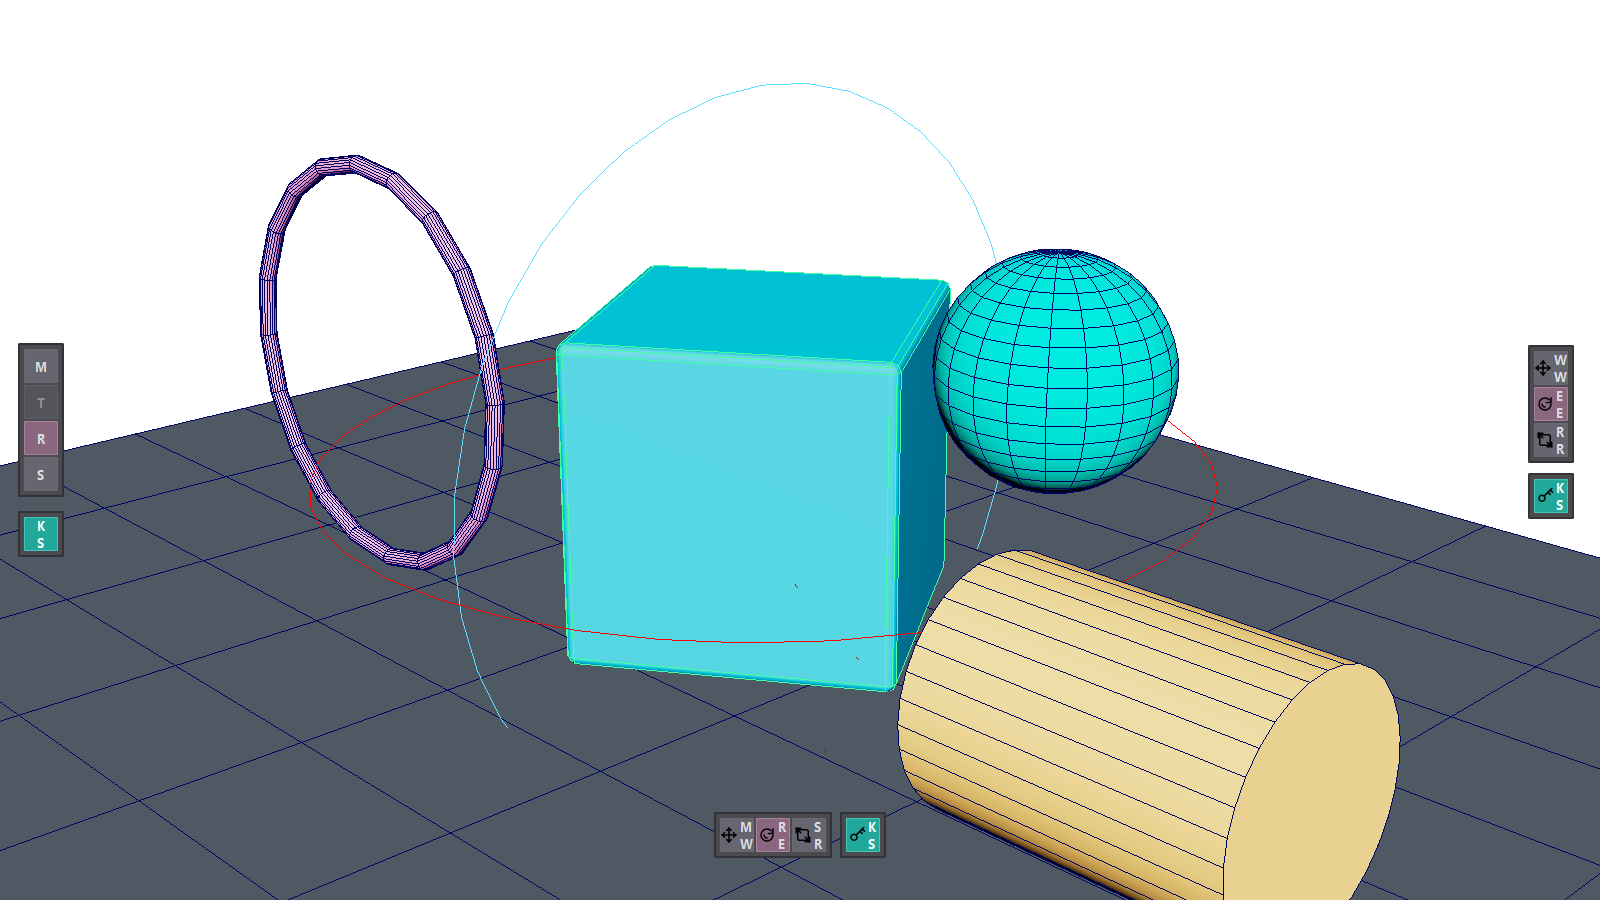
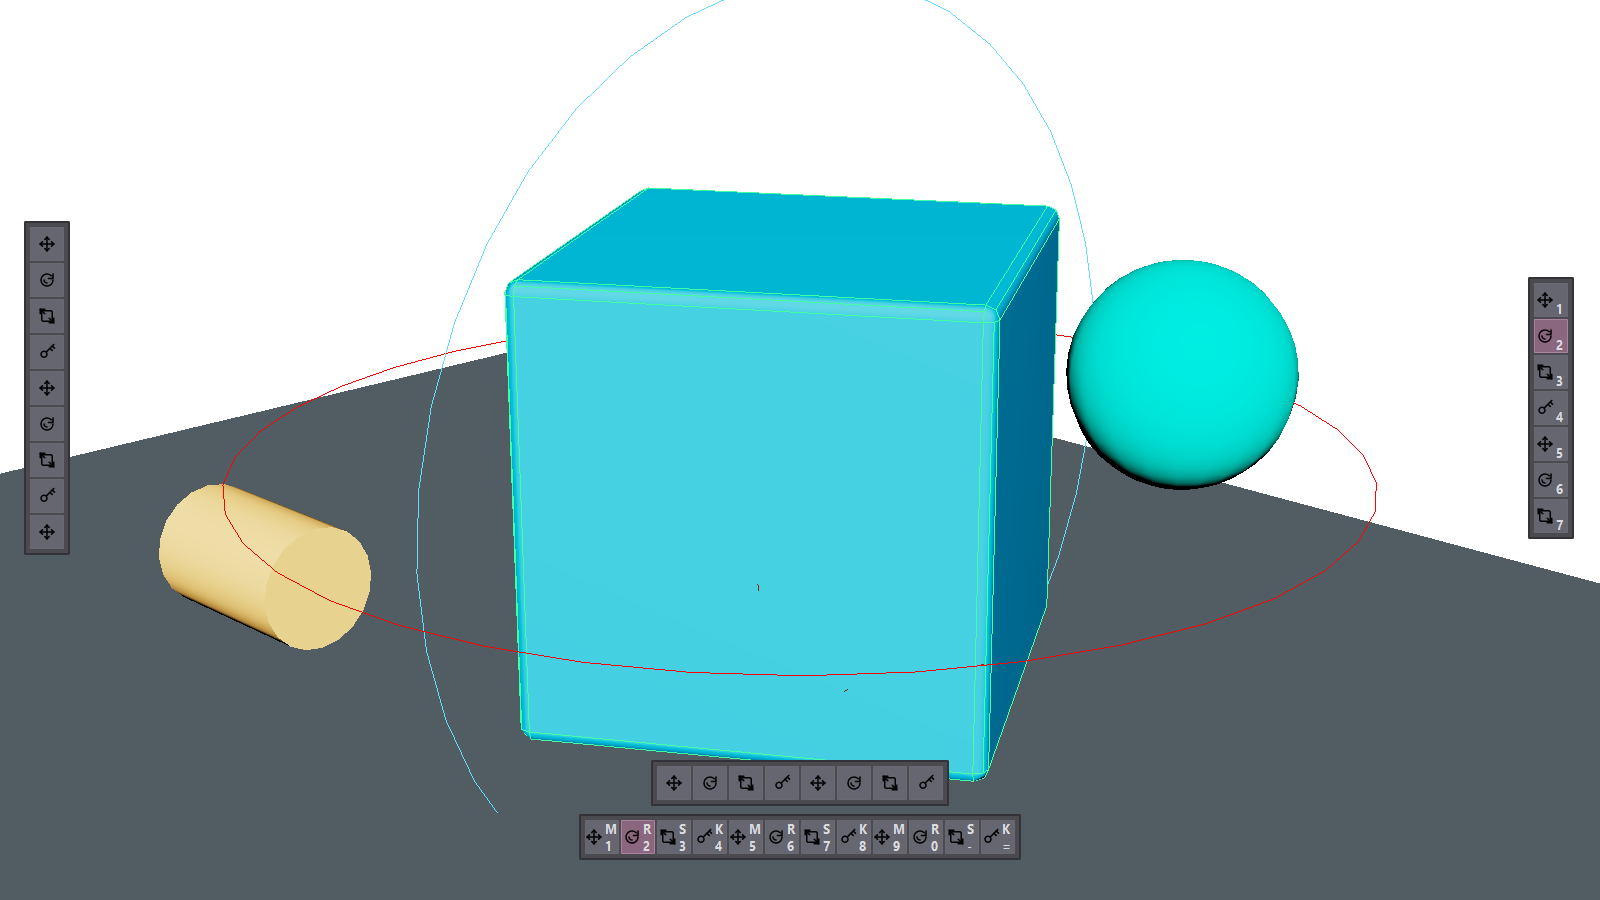
docs(readme): refresh Maya viewport showcase

diff --git a/tests/maya_smoke/actionrail_readme_screenshots.py b/tests/maya_smoke/actionrail_readme_screenshots.py
@@ -56,11 +56,9 @@ def _soften(node: str) -> None:
 
 
 def _bevel(node: str, offset: float = 0.035, segments: int = 2) -> None:
-    try:
+    with suppress(Exception):
         cmds.polyBevel(node, offset=offset, segments=segments, autoFit=True)
         _soften(node)
-    except Exception:
-        pass
 
 
 def _create_scene() -> str:
@@ -68,57 +66,38 @@ def _create_scene() -> str:
     cmds.currentUnit(linear="cm")
     cmds.currentTime(12)
 
-    slate = _material("ar_slate_mat", (0.18, 0.2, 0.23))
-    blue = _material("ar_blue_mat", (0.18, 0.48, 0.76))
+    blue = _material("ar_blue_mat", (0.16, 0.42, 0.72))
     teal = _material("ar_teal_mat", (0.08, 0.7, 0.64))
-    pink = _material("ar_pink_mat", (0.72, 0.34, 0.58))
     gold = _material("ar_gold_mat", (0.95, 0.68, 0.24))
-    graphite = _material("ar_graphite_mat", (0.11, 0.12, 0.14))
+    graphite = _material("ar_graphite_mat", (0.12, 0.13, 0.145))
 
-    ground = cmds.polyPlane(name="ActionRailStage", width=9.0, height=6.2)[0]
+    ground = cmds.polyPlane(name="ActionRailStage", width=7.2, height=4.8)[0]
     cmds.move(0, -0.04, 0, ground)
     _assign(ground, graphite)
 
-    hero = cmds.polyCube(name="ActionRailHeroControl", width=1.25, height=1.25, depth=1.25)[0]
-    cmds.move(-0.5, 0.64, 0, hero)
-    cmds.rotate(0, 34, 0, hero)
+    hero = cmds.polyCube(name="ActionRailSelectedControl", width=1.25, height=1.25, depth=1.25)[0]
+    cmds.move(-0.15, 0.64, 0, hero)
+    cmds.rotate(0, 32, 0, hero)
     _assign(hero, blue)
     _bevel(hero)
 
-    knob = cmds.polySphere(name="ActionRailSelectedHandle", radius=0.42)[0]
-    cmds.move(0.75, 1.25, -0.2, knob)
-    _assign(knob, teal)
-    _soften(knob)
+    handle = cmds.polySphere(name="ActionRailHandle", radius=0.28)[0]
+    cmds.move(0.98, 1.08, -0.18, handle)
+    _assign(handle, teal)
+    _soften(handle)
 
-    key = cmds.polyCylinder(
-        name="ActionRailKeyShape",
-        radius=0.42,
-        height=1.15,
-        subdivisionsX=32,
-    )[0]
-    cmds.move(1.9, 0.58, 0.75, key)
-    cmds.rotate(0, 0, 90, key)
-    _assign(key, gold)
-    _soften(key)
+    marker = cmds.polyCylinder(name="ActionRailKeyMarker", radius=0.18, height=0.55)[0]
+    cmds.move(-1.45, 0.24, 0.9, marker)
+    cmds.rotate(0, 0, 90, marker)
+    _assign(marker, gold)
+    _soften(marker)
 
-    torus = cmds.polyTorus(name="ActionRailMotionRing", radius=0.82, sectionRadius=0.035)[0]
-    cmds.move(-1.95, 0.9, 0.8, torus)
-    cmds.rotate(90, 0, 20, torus)
-    _assign(torus, pink)
-    _soften(torus)
-
-    for index, x_pos in enumerate((-2.8, -2.15, -1.5, -0.85)):
-        dot = cmds.polySphere(name=f"ActionRailTimelineDot{index + 1}", radius=0.09)[0]
-        cmds.move(x_pos, 0.08, -1.55 + (index * 0.12), dot)
-        _assign(dot, gold if index == 3 else slate)
-        _soften(dot)
-
-    rotate_control = cmds.circle(name="ActionRailRotateControl", normal=(0, 1, 0), radius=1.72)[0]
-    cmds.move(-0.5, 0.66, 0, rotate_control)
+    rotate_control = cmds.circle(name="ActionRailRotateGuide", normal=(0, 1, 0), radius=1.55)[0]
+    cmds.move(-0.15, 0.66, 0, rotate_control)
     _set_override_color(rotate_control, 13)
 
-    scale_control = cmds.circle(name="ActionRailScaleControl", normal=(1, 0, 0), radius=1.45)[0]
-    cmds.move(-0.5, 0.66, 0, scale_control)
+    scale_control = cmds.circle(name="ActionRailScaleGuide", normal=(1, 0, 0), radius=1.3)[0]
+    cmds.move(-0.15, 0.66, 0, scale_control)
     _set_override_color(scale_control, 18)
 
     cmds.directionalLight(name="ActionRailKeyLight", intensity=0.95)
@@ -145,13 +124,13 @@ def _active_model_panel() -> str:
 
 def _look_at_camera(panel: str) -> str:
     camera, shape = cmds.camera(name="ActionRailReadmeCamera")
-    cmds.setAttr(f"{shape}.focalLength", 48)
+    cmds.setAttr(f"{shape}.focalLength", 55)
     cmds.setAttr(f"{shape}.nearClipPlane", 0.1)
     cmds.setAttr(f"{shape}.farClipPlane", 1000)
-    cmds.xform(camera, translation=(5.2, 3.35, 5.3))
+    cmds.xform(camera, translation=(4.35, 2.7, 4.55))
 
     target = cmds.spaceLocator(name="ActionRailReadmeCameraTarget")[0]
-    cmds.xform(target, translation=(-0.25, 0.78, 0.05))
+    cmds.xform(target, translation=(-0.1, 0.7, 0.05))
     constraint = cmds.aimConstraint(
         target,
         camera,
@@ -175,81 +154,133 @@ def _set_viewport_style(panel: str) -> None:
         "selectionHiliteDisplay": True,
         "textures": False,
         "useDefaultMaterial": False,
-        "wireframeOnShaded": True,
+        "wireframeOnShaded": False,
     }
     for flag, value in flags.items():
         with suppress(Exception):
             cmds.modelEditor(editor, edit=True, **{flag: value})
 
     for name, color in {
-        "background": (0.095, 0.105, 0.12),
-        "backgroundTop": (0.16, 0.18, 0.2),
-        "backgroundBottom": (0.075, 0.08, 0.09),
+        "background": (0.075, 0.082, 0.095),
+        "backgroundTop": (0.105, 0.115, 0.13),
+        "backgroundBottom": (0.055, 0.06, 0.07),
     }.items():
         with suppress(Exception):
             cmds.displayRGBColor(name, color[0], color[1], color[2])
 
 
-def _quick_spec() -> actionrail.StackSpec:
+ACTION_SLOTS = (
+    ("move", "M", "maya.tool.move", "actionrail.move"),
+    ("rotate", "R", "maya.tool.rotate", "actionrail.rotate"),
+    ("scale", "S", "maya.tool.scale", "actionrail.scale"),
+    ("key", "K", "maya.anim.set_key", "actionrail.key"),
+)
+
+
+def _action_item(
+    spec_id: str,
+    index: int,
+    *,
+    key_label: str = "",
+    icon_only: bool = False,
+    active: bool = False,
+) -> actionrail.StackItem:
+    action_name, label, action_id, icon_id = ACTION_SLOTS[index % len(ACTION_SLOTS)]
+    active_when = ""
+    if active and action_id == "maya.tool.rotate":
+        active_when = "maya.tool == rotate"
+    elif active and action_id == "maya.tool.move":
+        active_when = "maya.tool == move"
+    elif active and action_id == "maya.tool.scale":
+        active_when = "maya.tool == scale"
+
+    return actionrail.StackItem(
+        type="toolButton",
+        id=f"{spec_id}.{action_name}_{index + 1}",
+        label="" if icon_only else label,
+        action=action_id,
+        icon=icon_id,
+        key_label=key_label,
+        tooltip=f"{label} action",
+        active_when=active_when,
+    )
+
+
+def _number_bar_spec() -> actionrail.StackSpec:
+    spec_id = "readme_number_actionbar"
+    key_labels = ("1", "2", "3", "4", "5", "6", "7", "8", "9", "0", "-", "=")
     return actionrail.StackSpec(
-        id="readme_context_rail",
+        id=spec_id,
+        layout=actionrail.RailLayout(
+            anchor="viewport.bottom.center",
+            orientation="horizontal",
+            offset=(0, -22),
+            opacity=0.95,
+        ),
+        items=tuple(
+            _action_item(spec_id, index, key_label=key, active=index == 1)
+            for index, key in enumerate(key_labels)
+        ),
+    )
+
+
+def _icon_strip_spec() -> actionrail.StackSpec:
+    spec_id = "readme_icon_strip"
+    return actionrail.StackSpec(
+        id=spec_id,
+        layout=actionrail.RailLayout(
+            anchor="viewport.bottom.center",
+            orientation="horizontal",
+            offset=(0, -76),
+            opacity=0.92,
+        ),
+        items=tuple(_action_item(spec_id, index, icon_only=True) for index in range(8)),
+    )
+
+
+def _left_icon_column_spec() -> actionrail.StackSpec:
+    spec_id = "readme_left_icon_column"
+    return actionrail.StackSpec(
+        id=spec_id,
+        layout=actionrail.RailLayout(
+            anchor="viewport.left.center",
+            orientation="vertical",
+            offset=(6, -62),
+            opacity=0.94,
+        ),
+        items=tuple(_action_item(spec_id, index, icon_only=True) for index in range(9)),
+    )
+
+
+def _right_number_column_spec() -> actionrail.StackSpec:
+    spec_id = "readme_right_number_column"
+    return actionrail.StackSpec(
+        id=spec_id,
         layout=actionrail.RailLayout(
             anchor="viewport.right.center",
             orientation="vertical",
-            offset=(-8, -18),
+            offset=(-8, -42),
             opacity=0.94,
         ),
-        items=(
-            actionrail.StackItem(
-                type="toolButton",
-                id="readme_context_rail.move",
-                label="W",
-                action="maya.tool.move",
-                icon="actionrail.move",
-                tooltip="Move tool",
-                key_label="W",
-                active_when="maya.tool == move",
-            ),
-            actionrail.StackItem(
-                type="toolButton",
-                id="readme_context_rail.rotate",
-                label="E",
-                action="maya.tool.rotate",
-                icon="actionrail.rotate",
-                tooltip="Rotate tool",
-                key_label="E",
-                active_when="maya.tool == rotate",
-            ),
-            actionrail.StackItem(
-                type="toolButton",
-                id="readme_context_rail.scale",
-                label="R",
-                action="maya.tool.scale",
-                icon="actionrail.scale",
-                tooltip="Scale tool",
-                key_label="R",
-                active_when="maya.tool == scale",
-            ),
-            actionrail.StackItem(type="spacer", id="readme_context_rail.gap", size=10),
-            actionrail.StackItem(
-                type="button",
-                id="readme_context_rail.key",
-                label="K",
-                action="maya.anim.set_key",
-                icon="actionrail.key",
-                tone="teal",
-                tooltip="Set keyframe",
-                key_label="S",
-            ),
+        items=tuple(
+            _action_item(
+                spec_id,
+                index,
+                key_label=str(index + 1),
+                icon_only=True,
+                active=index == 1,
+            )
+            for index in range(7)
         ),
     )
 
 
 def _show_bars(panel: str) -> tuple[object, ...]:
     hosts = (
-        actionrail.show_example("transform_stack", panel=panel),
-        actionrail.show_example("horizontal_tools", panel=panel),
-        actionrail.show_spec(_quick_spec(), panel=panel),
+        actionrail.show_spec(_number_bar_spec(), panel=panel),
+        actionrail.show_spec(_icon_strip_spec(), panel=panel),
+        actionrail.show_spec(_left_icon_column_spec(), panel=panel),
+        actionrail.show_spec(_right_number_column_spec(), panel=panel),
     )
     _process_events(350)
     for host in hosts:
@@ -400,14 +431,7 @@ def main() -> None:
                 ASSET_DIR / "actionrail_readme_maya_scene.png",
                 viewport_size=(1600, 900),
                 blast_name="actionrail_readme_maya_scene_base.png",
-            ),
-            _save_composite(
-                hosts,
-                ASSET_DIR / "actionrail_readme_maya_detail.png",
-                viewport_size=(1200, 760),
-                blast_name="actionrail_readme_maya_detail_base.png",
-                rail_margin=16,
-            ),
+            )
         ]
     finally:
         actionrail.hide_all()

diff --git a/README.md b/README.md
@@ -17,8 +17,7 @@ part of Maya instead of a large docked tool window.
 ## In Maya
 
 <p align="center">
-  <img src="docs/assets/actionrail_readme_maya_scene.png" alt="ActionRail bars shown over a Maya viewport scene" width="49%">
-  <img src="docs/assets/actionrail_readme_maya_detail.png" alt="ActionRail transform and tool rails in a Maya scene" width="49%">
+  <img src="docs/assets/actionrail_readme_maya_scene.png" alt="ActionRail action bars shown over a minimal Maya viewport scene">
 </p>
 
 ## Why
